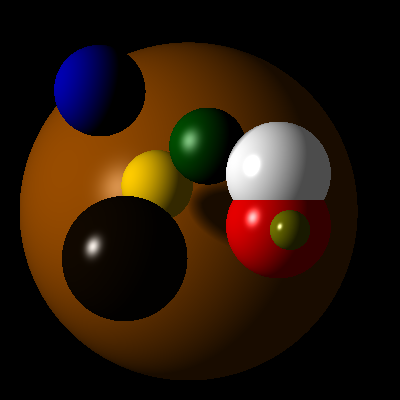
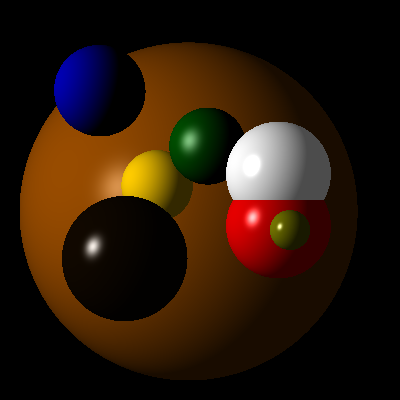
moitié de la reflection

Changed region(s): [[0.48, 0.45, 0.6, 0.6], [0.6, 0.33, 0.63, 0.36], [0.57, 0.36, 0.6, 0.39]]

diff --git a/scene.cpp b/scene.cpp
@@ -38,14 +38,13 @@ Iterator optimized_min_element(const Iterator& begin, const Iterator& end, Opera
 }
 
 
-Color Scene::trace(const Ray &ray)
+Color Scene::trace(const Ray &ray, int iterations)
 {
     std::unique_ptr<Object>& object = getObjectHitBy(ray);
 
     // No hit? Return background color.
     Hit current_hit = object->intersect(ray);
     if (current_hit == Hit::NO_HIT()) return Color(0.0, 0.0, 0.0);
-
 
     Color output = object->material.color * object->material.ka;
 
@@ -56,6 +55,12 @@ Color Scene::trace(const Ray &ray)
         if (lightFactor > 0) {
             output += lightFactor * light_source->computeColorAt(current_hit, object->material);
         }
+    }
+
+    if (iterations != 0 && object->material.reflection){
+        Vector dir = -rotateAround(ray.Direction, current_hit.Normal, 180);
+        Ray reflected {current_hit.Position + dir * 0.1, dir};
+        output += trace(reflected, iterations - 1) * object->material.ks;
     }
 
     return output;
@@ -107,31 +112,23 @@ Color Scene::traceNormals(const Ray &ray)
 
 void Scene::render(Image &img)
 {
-    Color (Scene::*traceFunction)(const Ray&) = nullptr;
-
-    switch (mode) {
-        case Mode::PHONG:
-            traceFunction = &Scene::trace;
-            break;
-        case ZBUFFER:
-            traceFunction = &Scene::traceZBuf;
-            break;
-        case NORMAL:
-            traceFunction = &Scene::traceNormals;
-            break;
-    }
-
-    if (! traceFunction) {
-        throw std::invalid_argument("Invalid rendering mode : " + std::to_string(mode));
-    }
-
     int w = img.width();
     int h = img.height();
     for (int y = 0; y < h; y++) {
         for (int x = 0; x < w; x++) {
             Point pixel(x + 0.5, h - 1 - y + 0.5, 0);
             Ray ray(eye, (pixel - eye).normalized());
-            Color col = (this->*traceFunction)(ray);
+            Color col;
+            switch (mode) {
+                case PHONG:
+                    col = trace(ray, 3);
+                case ZBUFFER:
+                    col =traceZBuf(ray);
+                default:
+                    col = trace(ray, 3);
+                    //col = traceNormals(ray);
+            }
+
             img(x, y) = col;
         }
     }

diff --git a/material.h b/material.h
@@ -20,13 +20,14 @@
 
 struct Material
 {
-    Color color;        // base color
+    Color  color;        // base color
     double ka;          // ambient intensity
     double kd;          // diffuse intensity
     double ks;          // specular intensity 
     double n;           // exponent for specular highlight size
+    bool   reflection;
 
-    Material() : color{}, ka{}, kd{}, ks{}, n{}
+    Material() : color{}, ka{}, kd{}, ks{}, n{}, reflection{}
     { }
 };
 

diff --git a/scene.h b/scene.h
@@ -24,6 +24,7 @@
 #include "object.h"
 #include "image.h"
 #include "yaml/yaml.h"
+#include "commongeometry.h"
 
 enum Mode {PHONG, ZBUFFER, NORMAL};
 void operator>>(const YAML::Node &node, Mode &mode);
@@ -41,7 +42,7 @@ public:
 
     bool SoftShadows = false;
 
-    Color trace(const Ray &ray);
+    Color trace(const Ray &ray, int iterations);
     Color traceZBuf(const Ray &ray);
     Color traceNormals(const Ray &ray);
     void render(Image &img);

diff --git a/triple.h b/triple.h
@@ -155,6 +155,11 @@ public:
     Color(Color&&) = default;
     Color& operator=(const Color&) = default;
     Color& operator=(Color&&) = default;
+/*
+    Color& operator+= (const Color &other) {
+        set(Red() + other.r, Green() + other.g,Blue() + other.b);
+        return *this;
+    }*/
 
     Color(component red, component green, component blue);
 

diff --git a/raytracer.cpp b/raytracer.cpp
@@ -53,6 +53,7 @@ Material Raytracer::parseMaterial(const YAML::Node& node)
     node["kd"] >> m.kd;
     node["ks"] >> m.ks;
     node["n"] >> m.n;
+    node["reflection"] >> m.reflection;
     return m;
 }
 
